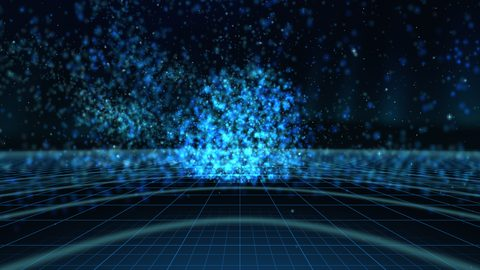
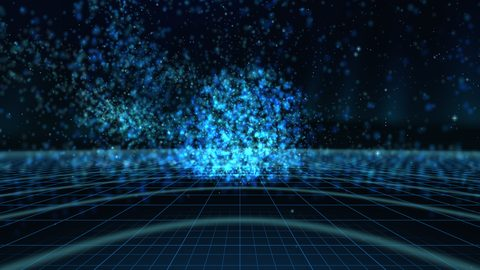
Final art pass from the re-score: tunnel bloom/colour/smoothing, terrain musicality and ceiling, pulse comfort and back hemisphere, orbit focal core, spectrum vault, softer floor pool
Claude-Session: https://claude.ai/code/session_01WiVqPkFQWa3AX2igSDKf14

diff --git a/src/viz/presets/WaveTunnel.ts b/src/viz/presets/WaveTunnel.ts
@@ -25,7 +25,7 @@ const SEG_LINES = 48;
 /** `rings` = rows per side of the listener's plane; the tube has 2 * (rings - 1) + 1 rows. */
 const QUALITY: Record<QualityLevel, { rings: number; segs: number }> = {
   low: { rings: 64, segs: 96 },
-  medium: { rings: 96, segs: 160 },
+  medium: { rings: 96, segs: 224 },
   high: { rings: 128, segs: 192 },
 };
 
@@ -63,15 +63,15 @@ varying vec3 vColor;
 // Three taps one box-width apart (and +-4 frames apart in time) with 1-2-1 weights tile that gap-free into a rounded
 // profile, so nothing aliases into zig-zags and the polyline has no kinks.
 float waveSm(float u, float age) {
-  float a = histWaveSmooth(clamp(u - 0.047, 0.01, 0.99), age + 4.0);
+  float a = histWaveSmooth(clamp(u - 0.09, 0.01, 0.99), age + 8.0);
   float b = histWaveSmooth(clamp(u, 0.01, 0.99), age);
-  float c = histWaveSmooth(clamp(u + 0.047, 0.01, 0.99), max(age - 4.0, 0.0));
+  float c = histWaveSmooth(clamp(u + 0.09, 0.01, 0.99), max(age - 8.0, 0.0));
   return 0.25 * (a + c) + 0.5 * b;
 }
 float specSm(float band, float age) {
-  float a = histFreqSmooth(clamp(band - 0.039, 0.01, 0.99), age + 4.0);
+  float a = histFreqSmooth(clamp(band - 0.075, 0.01, 0.99), age + 8.0);
   float b = histFreqSmooth(clamp(band, 0.01, 0.99), age);
-  float c = histFreqSmooth(clamp(band + 0.039, 0.01, 0.99), max(age - 4.0, 0.0));
+  float c = histFreqSmooth(clamp(band + 0.075, 0.01, 0.99), max(age - 8.0, 0.0));
   return 0.25 * (a + c) + 0.5 * b;
 }
 
@@ -99,7 +99,7 @@ void main() {
 
   float calm = 0.35 + 0.65 * smoothstep(0.0, 6.0, ja);               // keep the mouth near the user round
   float flare = 1.2 * exp(-ja / 2.5);                                 // trumpet mouth: opens up around the user
-  float disp = tanh((1.7 * sp * (0.7 + 1.5 * band) - 0.3 + 0.25 * w) * uIntensity) * calm * (1.0 - 0.35 * jn);
+  float disp = tanh((1.7 * sp * (0.7 + 0.9 * band) - 0.3 + 0.15 * w) * uIntensity) * calm * (1.0 - 0.35 * jn);
   float r = 3.4 + flare + disp + 0.2 * uLevel + 0.35 * pulse;
   r = 0.5 * (r + 2.4 + sqrt((r - 2.4) * (r - 2.4) + 0.04));          // smooth max: never closer than 2.4 m, no creases
 
@@ -108,7 +108,7 @@ void main() {
 
   // near rows are dim and thin, mid/far rows carry the glow; the far end dissolves so rows never pop in or out
   vRamp = smoothstep(0.0, 22.0, ja);
-  vEnd = 1.0 - smoothstep(0.45 * RINGS, 1.0 * RINGS, ja);
+  vEnd = 1.0 - smoothstep(0.30 * RINGS, 1.0 * RINGS, ja);
   vFade = (0.15 + 0.85 * vRamp) * vEnd * mix(1.0, 0.7, back);        // strongest content stays in front
   vK = j - uScrollFrac;                                                // ring lines recede from the user at a constant rate
   vSeg = aSeg * SEG_LINES;
@@ -116,7 +116,7 @@ void main() {
   vDisp = abs(disp);
   vPulse = pulse;
   // near = top of the gradient (capped below white), far = primary; bass lifts a row up the gradient
-  float gc = clamp(mix(0.88, 0.3, pow(max(jn, 0.0), 0.6)) - 0.12 * back + 0.14 * bass, 0.0, 0.8);
+  float gc = clamp(mix(0.92, 0.12, sqrt(max(jn, 0.0))) - 0.12 * back + 0.25 * bass, 0.0, 0.9);
   vec3 gcol = texture2D(uGradient, vec2(gc, 0.5)).rgb;
   // palettes differ a lot in luminance (greens / cyans read ~2x brighter than reds / violets at the same value): partly even that out
   float lum = dot(gcol, vec3(0.2126, 0.7152, 0.0722));
@@ -150,8 +150,8 @@ float gridLine(float x, float hw, float soft, float glowAmt) {
   float fw = max(fwidth(x), 1e-5);
   float d = abs(fract(x + 0.5) - 0.5) / fw;
   float line = 1.0 - smoothstep(hw, hw + soft, d);
-  float band = 0.25 * (1.0 - smoothstep(0.0, 2.5, d));
-  float tail = exp(-d * 0.7) * glowAmt;
+  float band = 0.5 * (1.0 - smoothstep(0.0, 5.0, d));
+  float tail = exp(-d * 0.35) * glowAmt;
   // lines crowding together (small spacing, large fw) dim first so the converging far field stays a calm glow, then the moire fade removes them
   float crowd = 1.0 - 0.7 * smoothstep(0.02, 0.16, fw);
   return (line + band + tail) * crowd * (1.0 - smoothstep(0.18, 0.40, fw));
@@ -159,21 +159,23 @@ float gridLine(float x, float hw, float soft, float glowAmt) {
 
 void main() {
   // fine lines near the user, more body (up to a 0.9 px half width) further down the tunnel
-  float hw = mix(0.55, 0.9, vRamp);
+  float hw = mix(0.7, 1.3, vRamp);
   float soft = mix(0.6, 1.0, vRamp);
-  float glowAmt = mix(0.04, 0.12, vRamp);
+  float glowAmt = mix(0.15, 0.35, vRamp);
   float ringL = gridLine(vK, hw, soft, glowAmt);
   float segL = gridLine(vSeg, hw * 0.85, soft, glowAmt);
   float lines = max(ringL, 0.45 * segL);
   // quiet base, bass rings stand out (squared so the contrast is kept while the average comes down); about 45 % dimmer
   // than the first version, which read as a uniformly bright full-field grid
-  float energy = 0.02 + 0.25 * vBass * vBass + 0.07 * vDisp;
+  float energy = 0.06 + 0.35 * vBass * vBass + 0.10 * vDisp;
   // the dark surface is lit at bass rings so the lines sit in light, not on black
   // only the strongest bass rows light the surface, and only faintly: the space between lines must stay near black
   float ring = smoothstep(0.72, 0.96, vBass);
   vec3 col = vColor * (lines * energy + 0.018 * (0.4 + vBass) * ring * ring);
   // beat pulse ring travelling away from the user stays the bright accent
   col += mix(vColor, uAccent, 0.5) * vPulse * (0.03 + 0.24 * lines);
+  // hot core where lines are strongest so the wireframe blooms instead of reading as flat hairlines
+  col += uAccent * (lines * lines * lines) * 0.25 * vBass * vFade;
   col = min(col * (vFade * uBright), vec3(0.9));   // never let a line reach full white before the output curve
   float volume = 0.7 * vEnd * uOpacity;
   gl_FragColor = vec4(cheapOutput(col * uOpacity + uBg * (0.15 * volume)), volume);

diff --git a/src/viz/presets/SpectralTerrain.ts b/src/viz/presets/SpectralTerrain.ts
@@ -14,7 +14,7 @@ const BEAT_RING_MAX = 50; // metres
 const BEAT_RING_SPEED = 16; // metres per second
 const SKY_RADIUS = 80; // sun / haze cylinder
 const SKY_HEIGHT = 46; // tall enough that the sun's glow is never clipped by the cylinder rim
-const SUN_Y = 17; // high enough that the striped lower third (y 6..13 m) clears the far ridge line (~5 m at 80 m)
+const SUN_Y = 19; // high enough that the striped lower third (y 6..13 m) clears the far ridge line (~5 m at 80 m)
 const SUN_RADIUS = 11;
 
 const SEGMENTS: Record<string, [number, number]> = {
@@ -76,7 +76,7 @@ float terrainH(vec2 xz) {
   // single fetch from the pre-blurred history (5 bands wide, ~3 rows deep); far hills lose their detail below
   float e = clamp(histFreqSmooth(u, age) * (0.85 + 0.6 * u), 0.0, 1.3);
 
-  float taper = smoothstep(1.5, 6.0, r); // flat 1.5 m around the feet, full height by 6 m
+  float taper = smoothstep(1.5, 4.5, r); // flat 1.5 m around the feet, full height by 4.5 m
   float front = mix(0.65, 1.0, 1.0 - smoothstep(-8.0, 3.0, xz.y)); // strongest ahead (-Z)
   float mask = edgeMask(xz);
   float ampFade = 1.0 - 0.7 * smoothstep(40.0, 55.0, r); // far hills lose their spectral detail
@@ -85,15 +85,15 @@ float terrainH(vec2 xz) {
   float roll = sin(xz.x * 0.16 + uTime * 0.10) * sin(xz.y * 0.12 - uTime * 0.08) * 0.65
              + sin(xz.x * 0.07 + xz.y * 0.10 + uTime * 0.06) * 0.35;
   float far = mix(1.0, 2.6, smoothstep(12.0, 35.0, r)); // gentle swells nearby, mountains far away
-  float h = pow(e, 1.3) * 5.0 * uIntensity * front * ampFade + (0.9 + 0.9 * roll) * far;
-  h += uBass * 0.5 * smoothstep(4.0, 20.0, r); // the whole landscape swells with the bass
+  float h = pow(e, 1.1) * 8.0 * uIntensity * front * ampFade + (0.9 + 0.9 * roll) * far;
+  h += uBass * 1.2 * smoothstep(4.0, 20.0, r); // the whole landscape swells with the bass
 
   // swell travelling across the ground on every beat
   float sw = (r - uBeatRing) / 1.8;
   float swell = exp(-sw * sw) * (1.0 - clamp(uBeatRing / BEAT_RING_MAX, 0.0, 1.0));
-  h += swell * uBeatAmp * 0.55;
+  h += swell * uBeatAmp * 0.9;
   // soft height cap: never above 2.2 m within 12 m of the user (look slightly down onto the hills), up to 4 m far away
-  float cap = mix(2.2, 4.0, smoothstep(12.0, 30.0, r));
+  float cap = mix(2.8, 5.0, smoothstep(12.0, 30.0, r));
   h = cap * (1.0 - exp(-h / cap));
   return h * taper * mask;
 }
@@ -103,7 +103,7 @@ void main() {
   float lift = position.y;
   float h0 = terrainH(xz);
   #ifdef CEILING
-    h0 *= 0.4; // a faint 40 %-height echo
+    h0 *= 0.7; // a 70 %-height echo
     vec3 p = vec3(-xz.x, CEILING_Y - h0 - lift, xz.y);
   #else
     // normals from finite differences over 2 segments (0.6 m) keep the hills round instead of faceted
@@ -156,7 +156,8 @@ vec2 gridLines(vec2 p, float scale) {
   vec2 gp = p * scale;
   vec2 gw = fwidth(gp);
   vec2 gd = abs(fract(gp - 0.5) - 0.5) / max(gw, vec2(1e-4)); // pixels to the nearest line
-  return (1.0 - smoothstep(0.5, 1.5, gd)) * (1.0 - smoothstep(0.22, 0.55, gw));
+  // crisp 1 px line plus a soft 4 px halo so the grid blooms instead of reading as hard hairlines
+  return ((1.0 - smoothstep(0.5, 1.5, gd)) + 0.35 * (1.0 - smoothstep(0.5, 4.0, gd))) * (1.0 - smoothstep(0.22, 0.55, gw));
 }
 
 void main() {
@@ -169,10 +170,14 @@ void main() {
 
 #ifdef CEILING
   // mid-gradient colour, valleys at 20 % and crests at 40 % of a 0.18 base (the floor's body light is ~0.4)
-  vec3 col = texture2D(uGradient, vec2(clamp(0.3 + vH * 0.4, 0.0, 0.85), 0.5)).rgb * (0.18 * mix(0.2, 0.4, smoothstep(0.0, 1.2, vH)));
+  vec3 gradHi = texture2D(uGradient, vec2(clamp(0.3 + vH * 0.4, 0.0, 0.85), 0.5)).rgb;
+  vec3 col = gradHi * (0.30 * mix(0.35, 0.7, smoothstep(0.0, 1.2, vH)));
+  // a coarse 4 m grid gives the ceiling echo structure instead of a featureless wash
+  vec2 cg = gridLines(vWorld.xz, 0.25);
+  col += gradHi * max(cg.x, cg.y) * 0.4;
   col *= uBrightness * (0.85 + 0.3 * uLevel) * (1.0 + uBeat * 0.2);
   col = mix(col, uBackground, fog);
-  float vis = 1.0 - smoothstep(12.0, 40.0, r);
+  float vis = 1.0 - smoothstep(24.0, 60.0, r);
   gl_FragColor = vec4(cheapOutput(col), uOpacity * vis * vis * sqrt(max(vMask, 0.0)));
 #else
   vec3 N = normalize(vNormal);
@@ -191,7 +196,7 @@ void main() {
   // Grid pass: 1 m cells, brighter on peaks and near rows.
   vec2 gl = gridLines(vPlane, 1.0);
   float lines = max(gl.x * 0.7, gl.y);
-  float gain = (0.5 + 1.6 * smoothstep(0.0, 3.0, vH)) * (1.0 + 0.9 * exp(-dist / 14.0));
+  float gain = (0.7 + 1.6 * smoothstep(0.0, 3.0, vH)) * (1.0 + 0.9 * exp(-dist / 14.0));
   col += gradHi * lines * gain;
 
   // Near floor (never black): 0.25 m minor grid fading out by 4 m, a sun-reflection road running ahead (-Z),
@@ -273,7 +278,7 @@ void main() {
   vec3 sunCol = mix(core, uPrimary * 0.45, smoothstep(0.1, 1.0, dd)) * (0.8 + 0.2 * uBass);
   sunCol *= min(1.0, 0.9 / max(dot(sunCol, vec3(0.2126, 0.7152, 0.0722)), 1e-4)); // luma <= 0.9
   col += sunCol * disc * stripe;
-  col += uPrimary * 0.35 * exp(-max(dd - 1.0, 0.0) * 1.6) * ahead * (1.0 - disc) * (1.0 - smoothstep(1.0, 2.0, dd));
+  col += uPrimary * 0.35 * exp(-max(dd - 1.0, 0.0) * 1.6) * ahead * (1.0 - disc * stripe) * (1.0 - smoothstep(1.0, 2.0, dd));
 
   // tone curve kept (not the additive variant): the sun's luma cap is designed around it
   gl_FragColor = vec4(cheapOutput(col * uBrightness * uOpacity), 1.0);

diff --git a/src/viz/presets/PulseCore.ts b/src/viz/presets/PulseCore.ts
@@ -23,7 +23,7 @@ const CORONA_SCALE = 0.85;
 
 const QUALITY = {
   low: { freq: 24, swarm: 1500, sparks: 100 },
-  medium: { freq: 48, swarm: 3000, sparks: 150 },
+  medium: { freq: 48, swarm: 7000, sparks: 150 },
   high: { freq: 64, swarm: 4500, sparks: 220 },
 } as const;
 
@@ -219,7 +219,7 @@ void main() {
   float glow = pow(fall, 2.4) * (1.0 - smoothstep(0.65, 1.0, dn)); // the window ends the (sub-level) tail smoothly at the edge
   float pulse = mix(1.0, 0.45 + 1.1 * uBass, vCor.z); // the back corona swells with the bass
   vec3 col = uPrimary * glow * (0.3 + 0.4 * uLevel) * vCor.y * pulse;
-  col += mix(uAccent, uPrimary, 0.3) * (f2 * f2) * uBeat * 0.35 * vCor.y; // inner flash on the beat
+  col += mix(uAccent, uPrimary, 0.3) * (f2 * f2) * uBeat * 0.22 * vCor.y; // inner flash on the beat
   gl_FragColor = vec4(cheapOutputAdditive(col * uBrightness * uOpacity), 1.0);
 }`;
 
@@ -307,7 +307,7 @@ void main() {
   float ring = exp(-ed * ed);
   float wake = smoothstep(0.0, 0.06, d) * exp(-d * 4.0) * 0.06 * (1.0 - smoothstep(${(SHOCK_BAND * 0.5).toFixed(2)}, ${SHOCK_BAND.toFixed(2)}, d));
   float life = pow(clamp(1.0 - vAge, 0.0, 1.0), 1.3);
-  vec3 col = uAccent * (ring * 1.9 + wake);
+  vec3 col = uAccent * (ring * 1.3 + wake);
   col *= min(1.0, 1.1 / max(max(col.r, max(col.g, col.b)), 1e-4)); // stay saturated instead of washing out to white
   col *= life * vPower * uBrightness * uOpacity * smoothstep(${CLEAR_NEAR.toFixed(1)}, ${CLEAR_FAR.toFixed(1)}, distance(vWorld, cameraPosition));
   gl_FragColor = vec4(cheapOutputAdditive(col), 1.0);
@@ -392,7 +392,7 @@ void main() {
     float sr = sqrt(1.0 - cu * cu);
     vec3 dir = vec3(sr * cos(ph), cu, sr * sin(ph));
     if (s.w < 0.35) dir.z = abs(dir.z); // a third of the dust is folded behind the listener: ~2/3 of it fills the back
-    float rad = (5.0 + 17.0 * s.x) * (1.0 + 0.03 * uBass + 0.04 * uBeat);
+    float rad = (4.0 + 14.0 * s.x) * (1.0 + 0.03 * uBass + 0.04 * uBeat);
     p = vec3(0.0, 1.6, 0.0) + dir * rad;
     p.y = abs(p.y - 0.3) + 0.3; // stay above the floor
     vec3 np = p * 0.12;
@@ -558,7 +558,7 @@ export class PulseCore implements Preset {
     this.coronaU = { ...shared(), uSizeBoost: { value: 0 }, uBass: { value: 0 } };
     const coronaGeo = new THREE.CircleGeometry(0.5, 24);
     // instance 0: behind the core (11 m wide); instance 1: dim and bass-pulsed behind the listener (9 m, 0.35x)
-    coronaGeo.setAttribute('aCor', new THREE.InstancedBufferAttribute(new Float32Array([11, 0.75, 0, 9, 0.35 * 0.75, 1]), 3));
+    coronaGeo.setAttribute('aCor', new THREE.InstancedBufferAttribute(new Float32Array([11, 0.75, 0, 14, 0.6 * 0.75, 1]), 3));
     const coronaMat = new THREE.ShaderMaterial({
       uniforms: this.coronaU,
       vertexShader: CORONA_VERTEX,
@@ -657,9 +657,9 @@ export class PulseCore implements Preset {
     const mid = Math.min(1.2, f.mid * p.intensity);
     const treble = Math.min(1.2, f.treble * p.intensity);
     const level = Math.min(1, f.level);
-    const beat = f.beatEnv * k;
+    const beat = f.beatEnv * k * 0.8;
     const bright = 0.6 + 0.4 * p.glow;
-    this.orbit += dt * p.speed * (0.35 + 1.8 * Math.min(1, f.highMid * p.intensity));
+    this.orbit += dt * p.speed * (0.25 + 0.35 * Math.min(1, f.highMid * p.intensity));
 
     for (const u of this.allUniforms) {
       u.uTime.value = this.time;
@@ -669,7 +669,7 @@ export class PulseCore implements Preset {
     }
     this.coreU.uBass.value = bass;
     this.coreU.uTreble.value = treble;
-    this.coronaU.uSizeBoost.value = 1.2 * level + 0.8 * beat;
+    this.coronaU.uSizeBoost.value = 0.5 * beat;
     this.coronaU.uBass.value = Math.min(1, bass);
     this.ringU.uMid.value = Math.min(1, mid);
     this.swarmU.uOrbit.value = this.orbit;

diff --git a/src/viz/presets/SpectrumCathedral.ts b/src/viz/presets/SpectrumCathedral.ts
@@ -63,6 +63,7 @@ varying float vTip; // metres below the pillar tip
 varying float vEnergy;
 varying float vRing;
 varying float vMirror;
+varying float vCeil;
 
 void main() {
   float ring = aData.y;
@@ -93,7 +94,7 @@ void main() {
   for (int k = 0; k < 6; k++) {
     int j = 2 * k;
     float ek = k == 0 ? e : clamp((raw[j] + raw[j + 1] + raw[j + 2]) * (1.0 / 3.0) * gain, 0.0, 1.25);
-    float hk = 0.2 + pow(ek, 1.4) * 6.0 * uIntensity * (1.0 + 0.1 * ring);
+    float hk = 0.2 + pow(max(ek, 0.3), 1.4) * 6.0 * uIntensity * (1.0 + 0.1 * ring);
     hk = hMax * tanh(hk / hMax);
     h = min(h, hk + RISE_PER_ROW * float(j));
   }
@@ -110,11 +111,13 @@ void main() {
     w *= 2.2; d *= 2.2; hh += 0.4;
   #endif
 
-  float sgn = 1.0 - 2.0 * mirror;
+  float sgn = mirror > 1.5 ? 1.0 : 1.0 - 2.0 * mirror;
   vec3 R = vec3(sin(theta), 0.0, -cos(theta));
   vec3 T = vec3(cos(theta), 0.0, sin(theta));
   float y = position.y * hh * sgn;
-  vec3 p = R * (radius - position.z * d) + T * (position.x * w * sgn + lean * y) + vec3(0.0, y, 0.0);
+  vec3 p = R * (radius - position.z * d - 0.18 * abs(y)) + T * (position.x * w * sgn + lean * y) + vec3(0.0, y, 0.0);
+  // mirror 2: a ceiling echo hanging from a 16 m vault at 40 % height (halo pass only)
+  if (mirror > 1.5) p.y = 16.0 - position.y * hh * 0.4;
   vec3 n = T * (normal.x * sgn) + vec3(0.0, normal.y * sgn, 0.0) - R * normal.z;
 
   vec4 wp = modelMatrix * vec4(p, 1.0);
@@ -125,7 +128,8 @@ void main() {
   vTip = (1.0 - position.y) * hh;
   vEnergy = e;
   vRing = ring;
-  vMirror = mirror;
+  vMirror = mirror > 1.5 ? 0.0 : mirror;
+  vCeil = step(1.5, mirror);
   gl_Position = projectionMatrix * viewMatrix * wp;
 }`;
 }
@@ -222,6 +226,7 @@ varying float vLocalY;
 varying float vEnergy;
 varying float vRing;
 varying float vMirror;
+varying float vCeil;
 
 void main() {
   vec3 N = normalize(vNormal);
@@ -240,14 +245,15 @@ void main() {
 
   float g = clamp(0.18 + y * 0.05 + vEnergy * 0.30 - vRing * 0.06, 0.0, 0.82);
   vec3 col = texture2D(uGradient, vec2(g, 0.5)).rgb * amt * alpha * uBrightness * (1.0 + uBeat * 0.35);
-  col *= mix(1.0, 0.3 * exp(-y * 0.5), vMirror) * uOpacity;
+  col *= mix(1.0, 0.3 * exp(-y * 0.5), vMirror) * mix(1.0, 0.5, vCeil) * uOpacity;
   gl_FragColor = vec4(cheapOutputAdditive(col), 1.0);
 }`;
 
 /** One block of instances: a ring, drawn either upright (mirror 0) or as its floor reflection (mirror 1). */
 interface InstanceSpec {
   ring: number;
-  mirror: 0 | 1;
+  /** 0 upright, 1 floor reflection, 2 ceiling echo (halo pass only) */
+  mirror: 0 | 1 | 2;
 }
 
 /**
@@ -329,7 +335,7 @@ export class SpectrumCathedral implements Preset {
     }));
 
     // Halo pass: the live ring (wider soft boxes, reflected) plus the ghost rings (no reflection), additive.
-    const haloSpec: InstanceSpec[] = [{ ring: 0, mirror: 0 }, { ring: 0, mirror: 1 }];
+    const haloSpec: InstanceSpec[] = [{ ring: 0, mirror: 0 }, { ring: 0, mirror: 1 }, { ring: 0, mirror: 2 }];
     for (let ring = SOLID_RINGS; ring < layout.rings; ring++) haloSpec.push({ ring, mirror: 0 });
     const halo = make(haloSpec, new THREE.ShaderMaterial({
       uniforms: this.uniforms,

diff --git a/src/viz/presets/LiquidOrbit.ts b/src/viz/presets/LiquidOrbit.ts
@@ -10,11 +10,11 @@ const AGE_SPAN = 90;
 const CORE_Z = -3.2;
 const CORE_RADIUS = 0.8; // nearest surface is 2.4 m from the head
 const HALO_SIZE = 2.7; // half-size (m) of the soft halo sprite behind the core (its edge ramp reaches 0 exactly there)
-const HALO_BASE = 0.02; // resting halo brightness (bass and beat add to it)
+const HALO_BASE = 0.06; // resting halo brightness (bass and beat add to it)
 const REFLECTION = 0.2; // alpha of the floor reflection
 const QUALITY: Record<QualityLevel, { main: number; outer: number; far: number; segs: number }> = {
   low: { main: 16, outer: 10, far: 2, segs: 160 },
-  medium: { main: 24, outer: 14, far: 3, segs: 240 },
+  medium: { main: 14, outer: 10, far: 3, segs: 240 },
   high: { main: 24, outer: 14, far: 3, segs: 360 },
 };
 
@@ -199,7 +199,9 @@ void main() {
   float front = -P.z / max(length(P), 0.001);                               // 1 straight ahead (-Z)
   float fbias = outerLayer < 0.5 ? 0.6 + 0.4 * smoothstep(-0.6, 0.9, front) : 1.0;
   float near = smoothstep(1.4, 3.0, dist);
-  float alpha = (0.2 + 0.9 * e + 0.1 * uBeat) * tailFade * headSoft * (1.0 + 1.0 * headGlow * (1.0 - outerLayer)) * fbias * near * uBright;
+  float alpha = (0.12 + 0.9 * e + 0.1 * uBeat) * tailFade * headSoft * (1.0 + 1.0 * headGlow * (1.0 - outerLayer)) * fbias * near * uBright;
+  // ribbons passing between the listener and the core dim to 40 % so the core stays the brightest object
+  if (P.z > CORE.z && P.z < 0.0) alpha *= mix(0.4, 1.0, smoothstep(0.8, 2.2, length(P.xy)));
   vAlpha = alpha * mix(0.5, mix(0.5, 0.6, farLayer), outerLayer);
   vAlpha *= 1.0 + 0.9 * uBeat * headGlow;                                  // beat accent: the heads flare
   vAlpha *= mix(1.0, REFLECTION, mir);
@@ -307,7 +309,7 @@ void main() {
   col = mix(col, hotCol, hot);
   col = mix(col, uAccent, clamp(fres * 0.35, 0.0, 1.0));
   float pulse = 0.5 + 0.8 * uBass + 0.3 * uBeat;
-  float a = 0.1 * (0.22 + 0.55 * turb + 0.9 * hot + 1.6 * fres) * pulse * mix(1.0, ${REFLECTION.toFixed(1)}, vMirror);
+  float a = 0.26 * (0.22 + 0.55 * turb + 1.6 * hot + 1.6 * fres) * pulse * mix(1.0, ${REFLECTION.toFixed(1)}, vMirror);
   gl_FragColor = vec4(cheapOutputAdditive(col * (a * uBright * uOpacity)), 1.0);
 }
 `;

diff --git a/src/viz/shared/Environment.ts b/src/viz/shared/Environment.ts
@@ -102,7 +102,7 @@ export class Environment {
           float fine = (1.0 - min(min(g2.x, g2.y), 1.0)) * (1.0 - smoothstep(2.5, 5.0, r)) * 0.25;
           float gridFade = exp(-r * 0.045);
           // soft light pool under the user, breathing with bass
-          float pool = gauss(r, 1.5) * (0.10 + 0.22 * uBass);
+          float pool = gauss(r, 1.5) * (0.04 + 0.10 * uBass);
           // static concentric rings that give the floor scale, lifted by bass
           float rings = (gauss(r - 4.0, 0.10) + gauss(r - 7.0, 0.11) + gauss(r - 10.0, 0.12) + gauss(r - 14.0, 0.14)) * (0.05 + 0.08 * uBass);
           rings *= exp(-r * 0.035);
